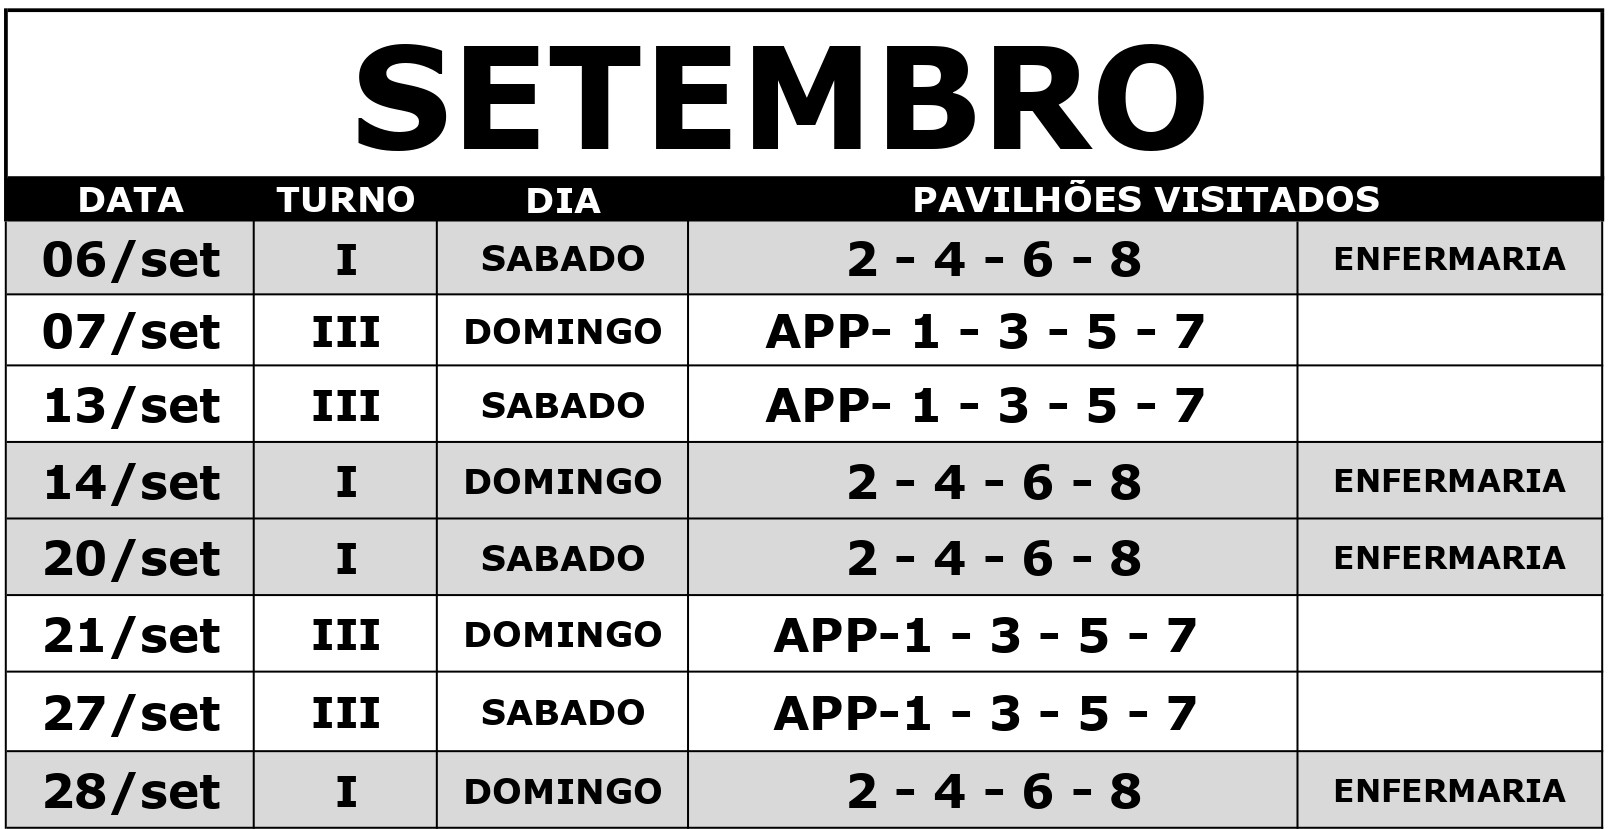
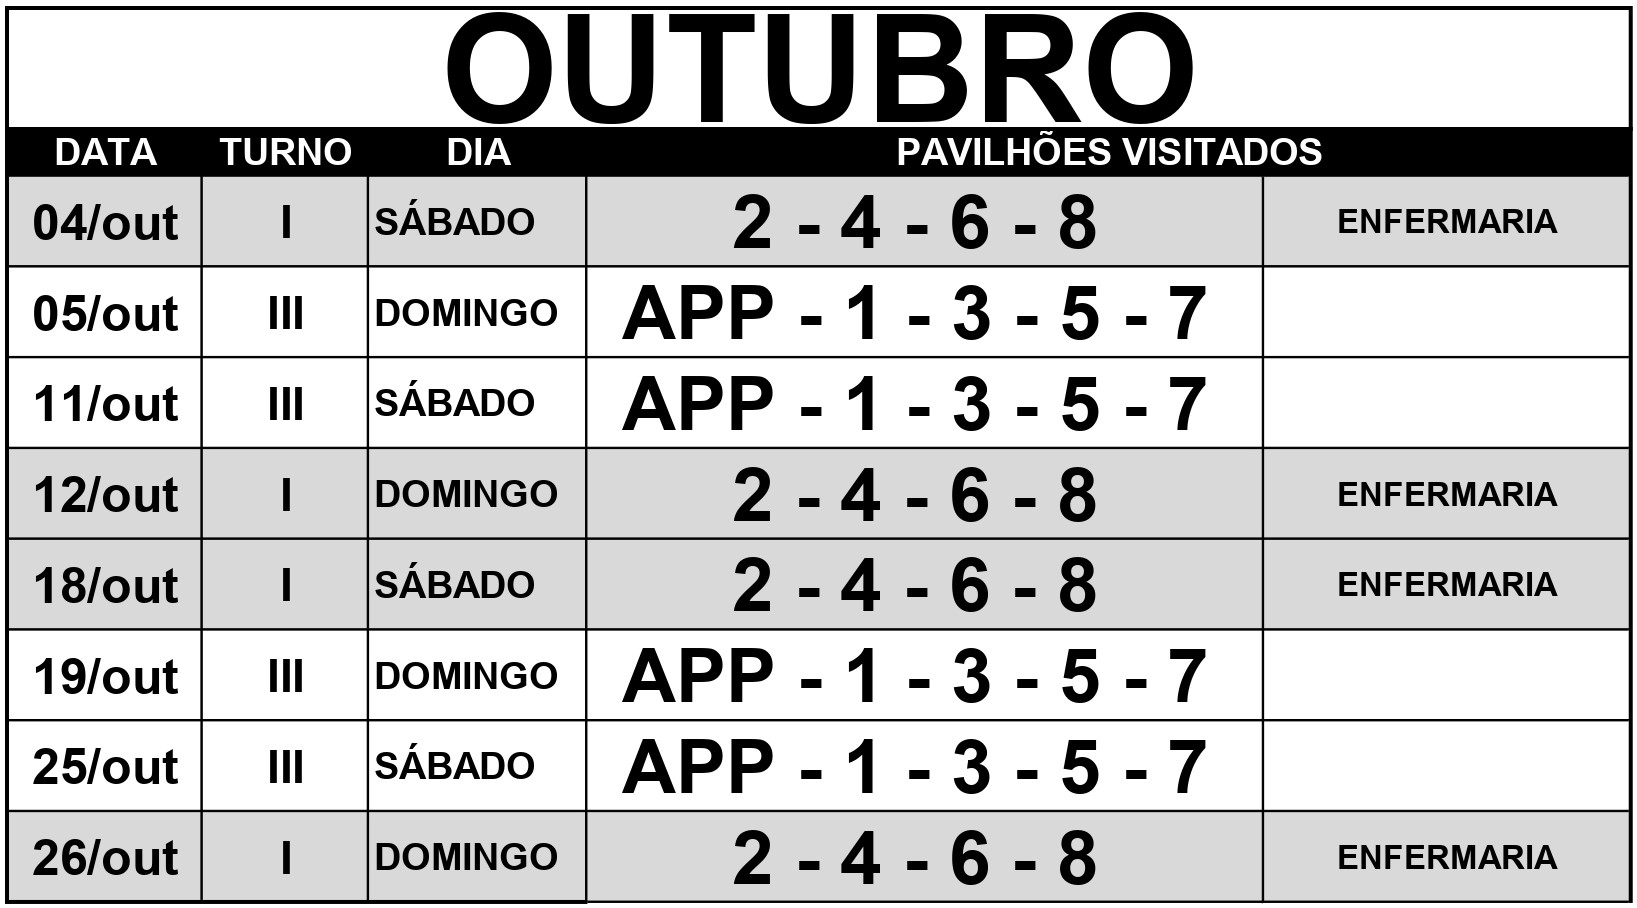
commit calendario outubro 25

diff --git a/index.html b/index.html
@@ -50,11 +50,8 @@
       <section>
         <h2>Últimas Informações</h2>
         <section>
-          <p>
-            <h5>COMUNICADO AOS VISITANTES</h5>
-            <p>Informamos que o <strong>calendário de visitas</strong> do mês de setembro, anteriormente publicado, continha informações incorretas. Estamos disponibilizando uma nova versão com a retificação das datas. Pedimos que desconsiderem o calendário anterior e consultem o novo documento para se programarem corretamente. Agradecemos a compreensão de todos.</p>
-            <img src="imagens/calendario.jpg" alt="Informações sobre o Calendário">            
-          </p>
+          <p>Calendário de visitação de outubro de 2025</p>
+            <img src="imagens/calendario.jpg" alt="Informações sobre o Calendário">
         </section>
         <!--<section>
           <p style="background-color: rgb(231, 137, 137);">Visando melhorar o atendimento via <b>WhatsApp</b>, o serviço ficará indisponível temporariamente!</p>

diff --git a/calendario.html b/calendario.html
@@ -33,7 +33,7 @@
       <section>
         <h2>Calendário de Visitação</h2>
         <img src="imagens/calendario.jpg" alt="Calendário de Visitação">
-        <p style="text-align: center;">Atualizado dia 02/09/2025</p>
+        <p style="text-align: center;">Atualizado dia 03/10/2025</p>
         <!--<p style="color: red; font-weight: bold; text-align: center;">DEVIDO AS ELEIÇÕES, A VISITAÇÃO DO DIA 02/10/2022 TERÁ SEU HORÁRIO ALERADO. DAS 10H ÀS 16H.</p>-->
       </section>
     </main>
